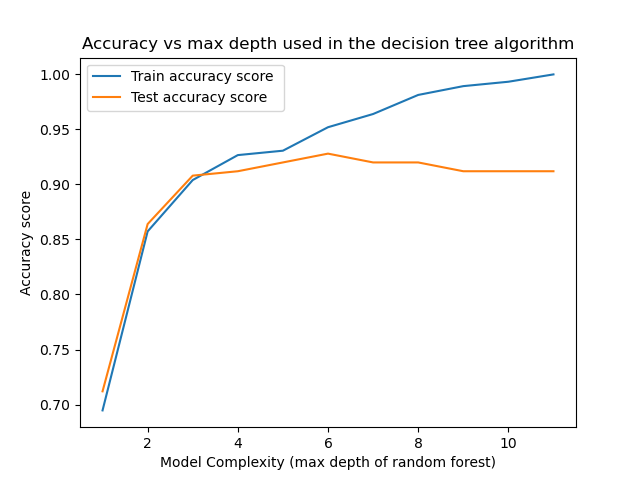
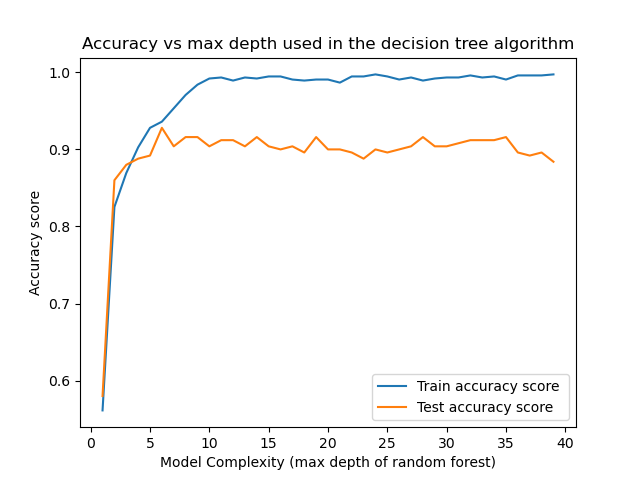
test26

diff --git a/project3/code/test_project_3.py b/project3/code/test_project_3.py
@@ -15,6 +15,7 @@ VSCODE: CTRL K -> CTRL 0 (close all if-statements, functions etc.)
 then this file will be very easy to read/ use
 """
 
+from inspect import FullArgSpec
 import time
 import tensorflow as tf
 from tensorflow.keras.utils import to_categorical
@@ -552,7 +553,7 @@ if test8:
     last_train_accuracy = 0
     for i, max_depth in enumerate(max_depths):
         clf = RandomForestClassifier(
-            max_depth=max_depth)
+            max_depth=max_depth, n_estimators=10)
 
         # Fit the data to the model we have created
         clf.fit(X_train, y_train)
@@ -649,9 +650,9 @@ if test10:
         # Fitting the model
         model.fit(X_train, y_train_NN,
                   epochs=n_epochs,
-                  batch_size=batch_size)
+                  batch_size=batch_size, verbose=0)
     time_neural = time.time() - time_neural_start
-    print('>> Time: {time_neural} s (Neural network)')
+    print(f'>> Time: {time_neural:.10f}s (Neural network)')
 
     logistic_regression = True
     time_logistic_start = time.time()
@@ -679,7 +680,7 @@ if test10:
             lmbda=lmbda
         )
     time_logistic = time.time() - time_logistic_start
-    print('>> Time: {time_logistic} s (Logistic regression)')
+    print(f'>> Time: {time_logistic:.10f}s (Logistic regression)')
 
     decision_tree = True
     time_tree_start = time.time()
@@ -694,7 +695,7 @@ if test10:
         # Fit the data to the model we have created
         clf.fit(X_train, y_train_decision_tree)
     time_tree = time.time() - time_tree_start
-    print('>> Time: {time_tree} s (Decision tree)')
+    print(f'>> Time: {time_tree:.10f}s (Decision tree)')
 
     random_forest = True
     time_forest_start = time.time()
@@ -709,7 +710,7 @@ if test10:
         # Fit the data to the model we have created
         clf.fit(X_train, y_train_random_forest)
     time_forest = time.time() - time_forest_start
-    print('>> Time: {time_forest} s (Random forest)')
+    print(f'>> Time: {time_forest:.10f}s (Random forest)')
 
 
 """
@@ -1613,7 +1614,7 @@ if test25:
         iter += 1
         print(f"---------------- {iter}/{max_degree} RUNS ----------------")
 
-        # Finding MSE, bias and variance from the bootstra
+        # Finding MSE, bias and variance from the bootstrap
         MSE_test = np.mean(np.mean(
             (y_pred_test_matrix - np.transpose(np.array([y_test])))**2))
 
@@ -1641,5 +1642,85 @@ if test25:
         Data points: {len(X_train[:,0]) + len(X_test[:,0])}; Method: Random forest"
     )
     plt.savefig('plots/test25/test25_random_forest_1')
+    plt.show()
+    plt.close()
+
+"""
+TEST 26:
+DATASET: Housing data (regression case)
+METHOD: Random forest
+
+Bias-variance tradeoff. The error vs. the complexity of the method,
+where the complexity in random forest is the number of trees. The amount of
+trees in the random forest is set by default to 10. 
+"""
+
+test26 = True
+if test26:
+    print('>> RUNNING TEST 26:')
+    n_components = 8
+    m_observations = 2000
+    X_train, X_test, y_train, y_test = helper.load_housing_california_data(
+        n_components, m_observations)
+
+    # Store the MSE, bias and variance values for test data
+    list_of_MSE_testing = []
+    list_of_bias_testing = []
+    list_of_variance_testing = []
+
+    iter = 0
+    max_degree = 100
+    n_bootstraps = 10
+    # Finding MSE, bias and variance of test data for different degrees
+    for degree in range(1, max_degree + 1, 10):
+
+        # Create matrix for storing the bootstrap results
+        y_pred_test_matrix = np.empty((y_test.shape[0], n_bootstraps))
+
+        # Running bootstrap-method
+        for i in range(n_bootstraps):
+
+            _X, _y, = helper.resample(X_train, y_train)
+
+            # Create randomforest instance, with amount of max_depth
+            clf = RandomForestRegressor(max_depth=10, n_estimators=degree)
+
+            # Fit the data to the model we have created
+            clf.fit(_X, _y)
+
+            # Make predictions
+            y_pred_test_matrix[:, i] = clf.predict(X_test).reshape(1, -1)
+
+        iter += 1
+        print(f"---------------- {iter}/{max_degree/10} RUNS ----------------")
+
+        # Finding MSE, bias and variance from the bootstrap
+        MSE_test = np.mean(np.mean(
+            (y_pred_test_matrix - np.transpose(np.array([y_test])))**2))
+
+        bias_test = np.mean(
+            (y_test - np.mean(y_pred_test_matrix, axis=1, keepdims=False))**2)
+
+        variance_test = np.mean(
+            np.var(y_pred_test_matrix, axis=1, keepdims=False))
+
+        list_of_MSE_testing.append(MSE_test)
+        list_of_bias_testing.append(bias_test)
+        list_of_variance_testing.append(variance_test)
+
+    plt.plot(range(1, max_degree + 1, 10),
+             list_of_MSE_testing, label="Test sample - error")
+    plt.plot(range(1, max_degree + 1, 10),
+             list_of_bias_testing, label="Test sample - bias")
+    plt.plot(range(1, max_degree + 1, 10),
+             list_of_variance_testing, label="Test sample - variance")
+    plt.xlabel("Model Complexity")
+    plt.ylabel("Prediction Error")
+    plt.legend()
+    plt.title(
+        f"bias-variance trade-off vs model complexity\n\
+        Data points: {len(X_train[:,0]) + len(X_test[:,0])}; Method: Random forest"
+    )
+    plt.savefig('plots/test26/test26_random_forest_n_trees')
     plt.show()
     plt.close()
